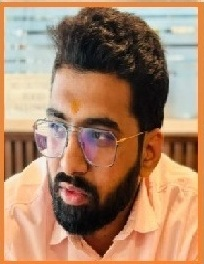
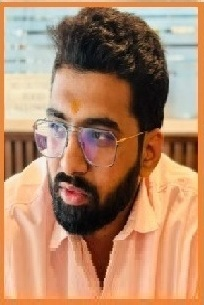
add rajveer

diff --git a/index.html b/index.html
@@ -274,6 +274,11 @@
                     <h4>Mr. Vishvendra Singh</h4>
                     <p class="performer-designation">Director, Information Technology & Digital Innovation </p>
                 </article>
+                <article class="card performer">
+                    <img src="images/team/rajveer-singh.jpg" alt="Mr. rajveer Singh" class="performer-photo" onerror="this.src='images/logo.jpeg'">
+                    <h4>Mr. Rajveer Singh</h4>
+                    <p class="performer-designation">Director, Education & Skill Development </p>
+                </article>
             </div>
 
             <h3 class="team-tier" data-i18n="tierTeam">Team</h3>
@@ -281,7 +286,7 @@
                 <article class="card performer">
                     <img src="images/team/manish-soni.jpg" alt="Mr. Manish Soni" class="performer-photo" onerror="this.src='images/logo.jpeg'">
                     <h4>Mr. Naresh Soni</h4>
-                    <p class="performer-designation">District Head, Gau Hospital Support Services</p>
+                    <p class="performer-designation">District Director, Gau Hospital Support Services</p>
                 </article>
                 <article class="card performer">
                     <img src="images/team/prerna-jangid.jpg" alt="Prerna Jangid" class="performer-photo" onerror="this.src='images/logo.jpeg'">
